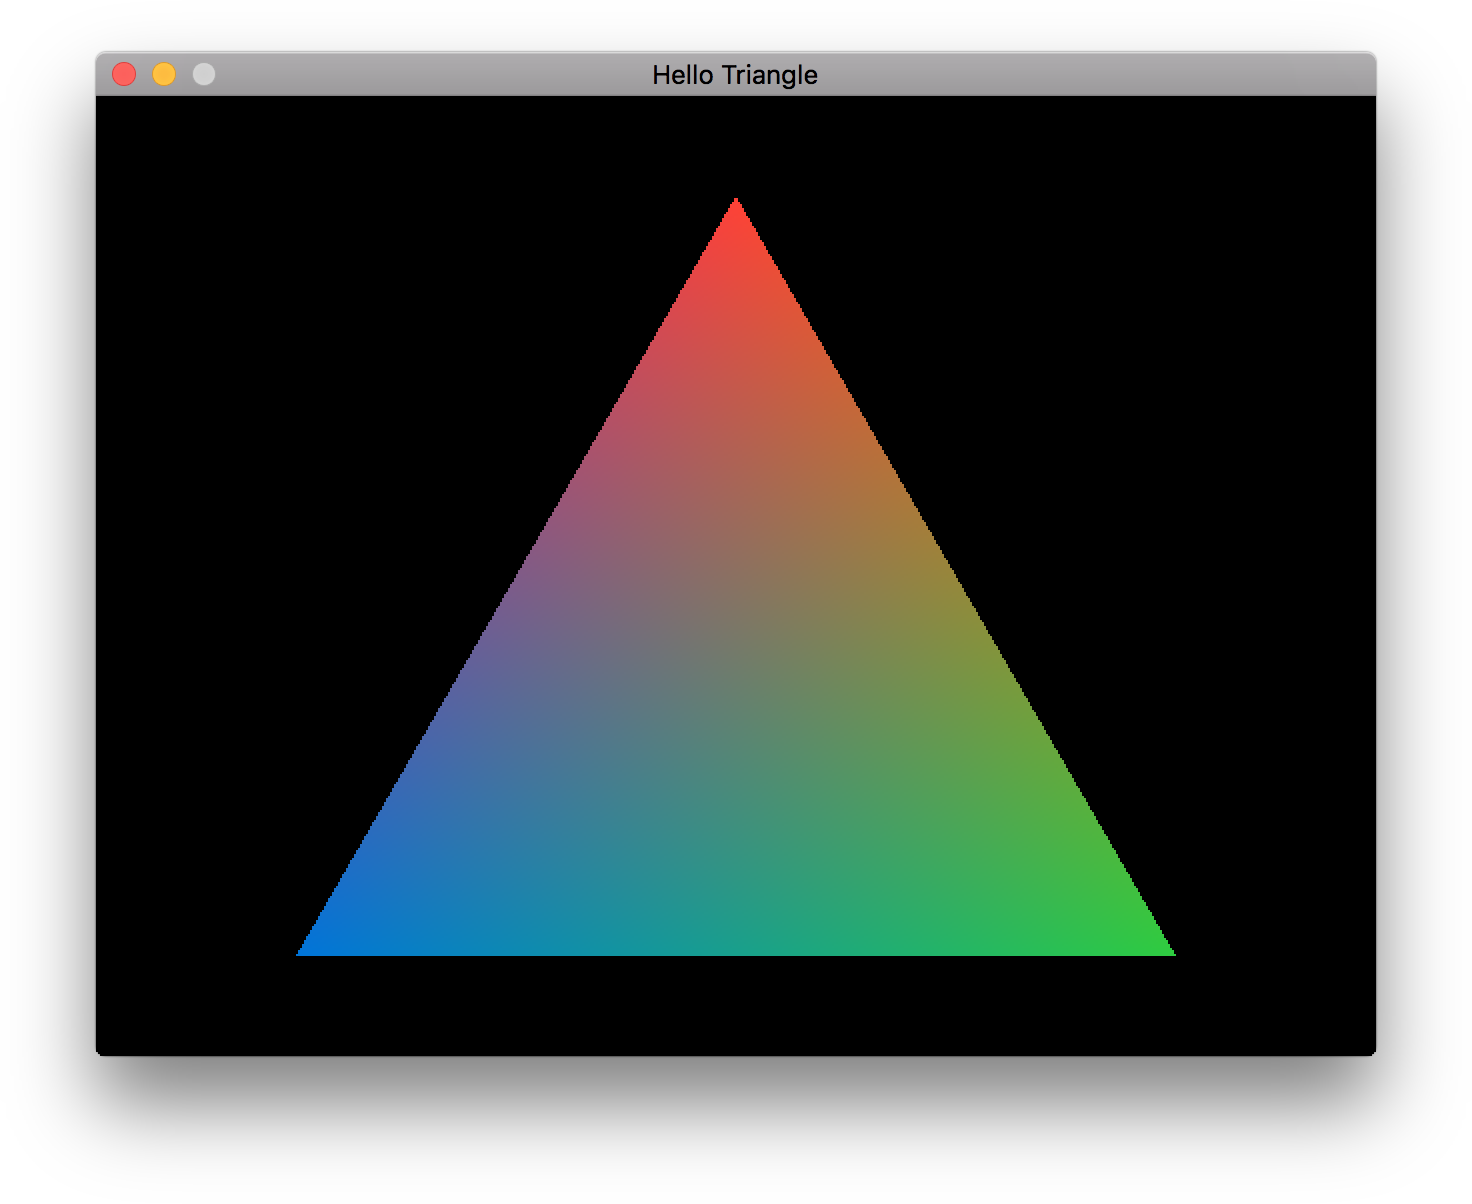
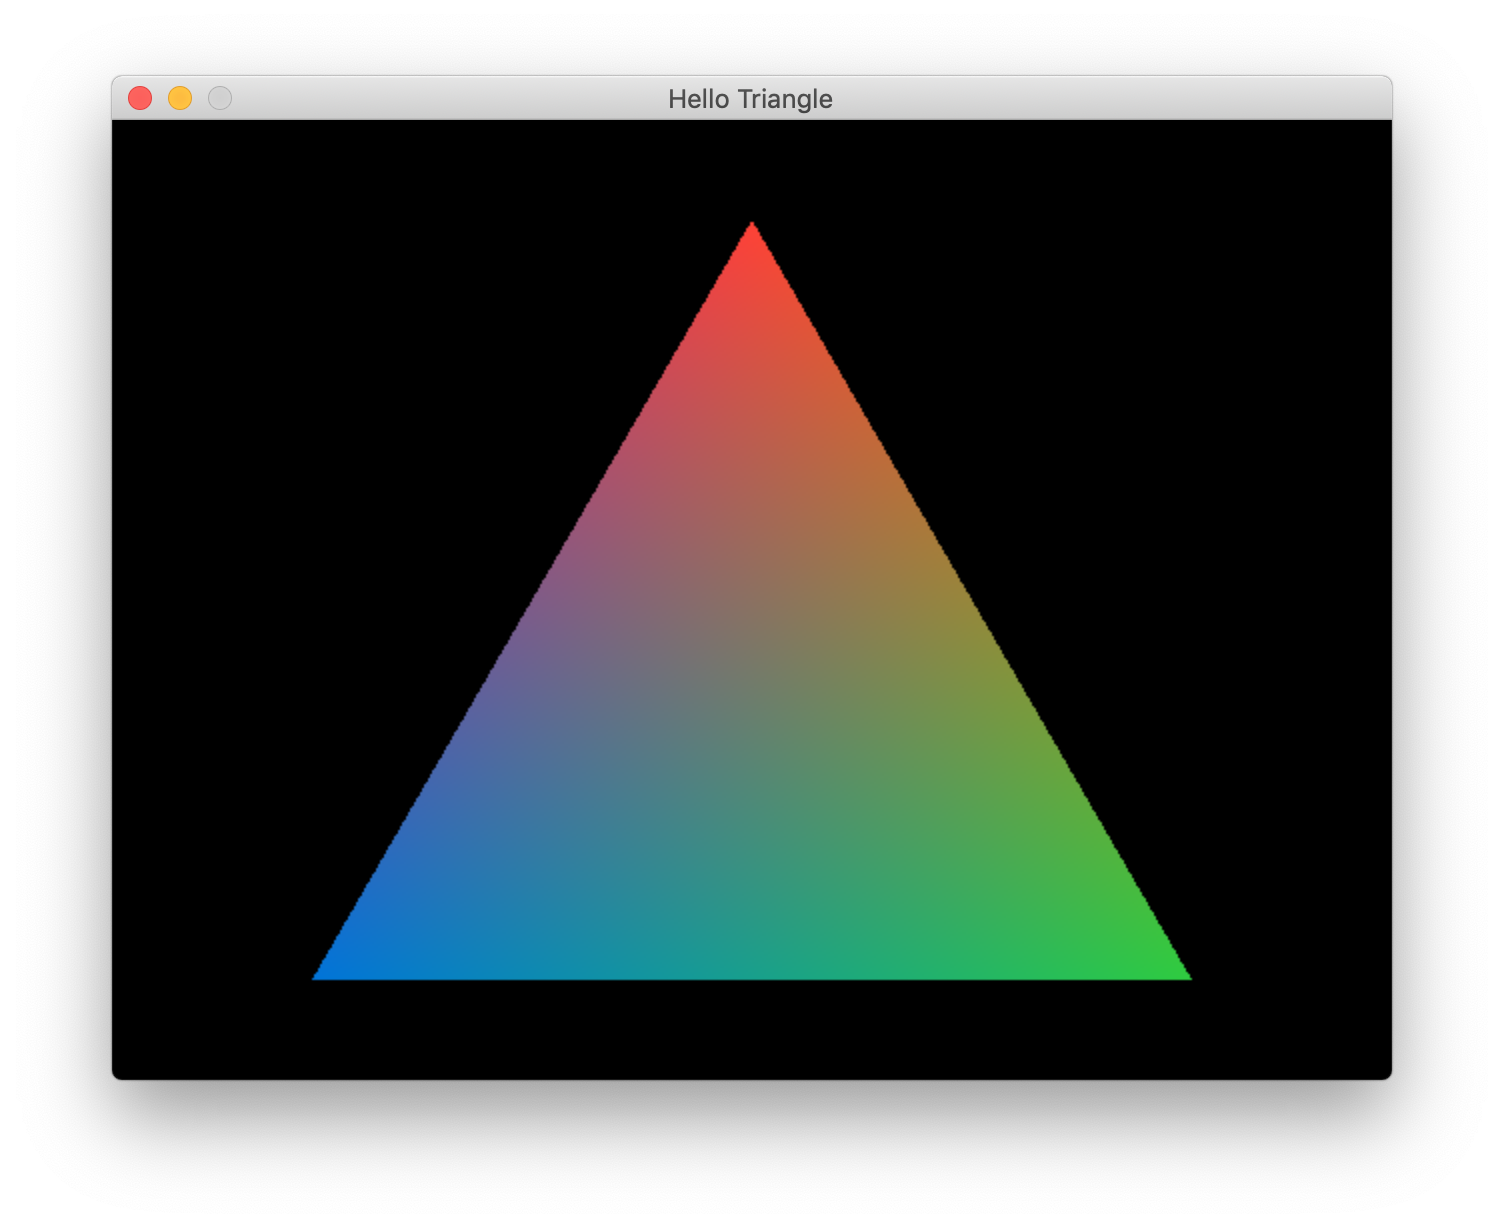
Update env setups

diff --git a/_pages/learn/linux.md b/_pages/learn/linux.md
@@ -1,0 +1,88 @@
+---
+title: Ruby 2D on Linux
+subtitle: Learn how to set up your environment on Linux
+layout: learn
+---
+
+# Install Ruby
+
+We recommend managing Ruby versions using [rbenv](https://github.com/rbenv/rbenv). To set it up:
+
+1. Check out rbenv into `~/.rbenv`:
+```bash
+$ git clone https://github.com/rbenv/rbenv.git ~/.rbenv
+```
+
+2. Install [ruby-build](https://github.com/rbenv/ruby-build) as an rbenv plugin, which will add the `rbenv install` command:
+```bash
+$ git clone https://github.com/rbenv/ruby-build.git ~/.rbenv/plugins/ruby-build
+```
+
+3. Add rbenv to your path and initialize by adding the following to your `~/.bashrc` or `~/.bash_profile`:
+```bash
+export PATH="$HOME/.rbenv/bin:$PATH"
+eval "$(rbenv init -)"
+```
+
+4. Reload the current shell to get access to rbenv:
+```bash
+$ source ~/.bashrc  # or ~/.bash_profile
+```
+
+5. [Install packages](https://github.com/rbenv/ruby-build/wiki#suggested-build-environment) to prepare your build environment.
+
+6. Install the latest version of Ruby (2.5.1 in this case), and don't generate RDoc to save time (plus, docs are online):
+```bash
+$ CONFIGURE_OPTS="--disable-install-doc --enable-shared" rbenv install 2.5.1 --verbose
+```
+
+7. Set Ruby 2.5.1 as the global default:
+```bash
+$ rbenv global 2.5.1
+```
+
+8. Don't install docs for gems
+```bash
+$ echo "gem: --no-document" > ~/.gemrc
+```
+
+9. Check to make sure everything works:
+```
+$ rbenv versions
+  system
+* 2.5.1 (set by /home/<me>/.rbenv/version)
+$ ruby -e "puts 'Hello Ruby'"
+Hello Ruby
+```
+
+# Install Simple 2D
+
+Ruby 2D requires a native graphics engine called Simple 2D, which relies on SDL. Install SDL packages for your Linux distribution:
+
+- Ubuntu/Debian/Mint:
+```bash
+$ sudo apt install -y libsdl2-dev libsdl2-image-dev libsdl2-mixer-dev libsdl2-ttf-dev
+```
+
+- CentOS/Fedora:
+```bash
+# `dnf install` on Fedora 22+
+$ sudo yum install -y SDL2-devel SDL2_image-devel SDL2_mixer-devel SDL2_ttf-devel
+```
+
+- Arch:
+```bash
+$ sudo pacman -S sdl2 sdl2_image sdl2_mixer sdl2_ttf
+```
+
+Next, download the source for the [latest version](https://github.com/simple2d/simple2d/releases/latest) and run `make && sudo make install`
+
+# Install Ruby 2D
+
+You're now ready to install the gem!
+
+```
+$ gem install ruby2d
+```
+
+That's it! Head back to the "get started" guide and [write your first 2D app »](/learn/get-started#writing-your-first-2d-app)

diff --git a/_pages/learn/windows.md b/_pages/learn/windows.md
@@ -16,15 +16,10 @@ Ruby 2D works with 64-bit Windows and is tested on the latest releases of Window
 
 3. When prompted for "Which components shall be installed", just press "enter" to install all of them. When finished installing, press "enter" again to quit.
 
-4. Add Ruby to your MinGW environment, for example by adding:
+4. Add Ruby to your MinGW environment, for example by running the following in a MinGW 64-bit command prompt (usually at `C:\Ruby25-x64\msys64\mingw64.exe`):
 ```
-export PATH=$PATH:/c/Ruby25-x64/bin
+echo "export PATH=$PATH:/c/Ruby25-x64/bin" > ~/.bash_profile
 ```
-to your `~/.bash_profile`, which will be located at:
-```
-C:\Ruby25-x64\msys64\home\your_user_name
-```
-Note, your Ruby directory might differ.
 
 **Using Chocolatey...**
 
@@ -34,15 +29,10 @@ Note, your Ruby directory might differ.
 
 3. Install the [MSYS2 package](https://chocolatey.org/packages/msys2) using `choco install msys2`
 
-4. Add Ruby to your MinGW environment, for example by adding:
+4. Add Ruby to your MSYS2 environment, for example by running:
 ```
-export PATH=$PATH:/c/tools/ruby25/bin
+echo "export PATH=$PATH:/c/tools/ruby25/bin" > ~/.bash_profile
 ```
-to your `~/.bash_profile`, which will be located at:
-```
-C:\tools\msys64\home\your_user_name
-```
-Note, your Ruby directory might differ.
 
 5. To be able to build native Ruby gem extensions, install the MinGW compiler toolchain by opening a MinGW 64-bit command prompt (located at `C:\tools\msys64\mingw64.exe`) and running `pacman -S make mingw-w64-x86_64-gcc`
 

diff --git a/_pages/learn/get-started.md b/_pages/learn/get-started.md
@@ -22,6 +22,8 @@ On **Linux**, run the install script by pasting this snippet in your terminal:
 url='https://raw.githubusercontent.com/simple2d/simple2d/master/bin/simple2d.sh'; which curl > /dev/null && cmd='curl -fsSL' || cmd='wget -qO -'; bash <($cmd $url) install
 ```
 
+Need help setting up your Ruby environment on Linux? [Check out the guide »](/learn/linux)
+
 On **Windows**, learn how to [set up your environment »](/learn/windows)
 
 ## Install the gem
@@ -67,7 +69,7 @@ ruby app.rb
 
 You should see this impressive triangle...
 
-<img style="margin-bottom:-2rem" src="/assets/img/triangle-shadow.png">
+<img style="margin-bottom:-2rem; width: 100%; max-width: 752px" src="/assets/img/triangle-shadow.png">
 
 Congrats, you just built your first Ruby 2D app! 🎉
 
